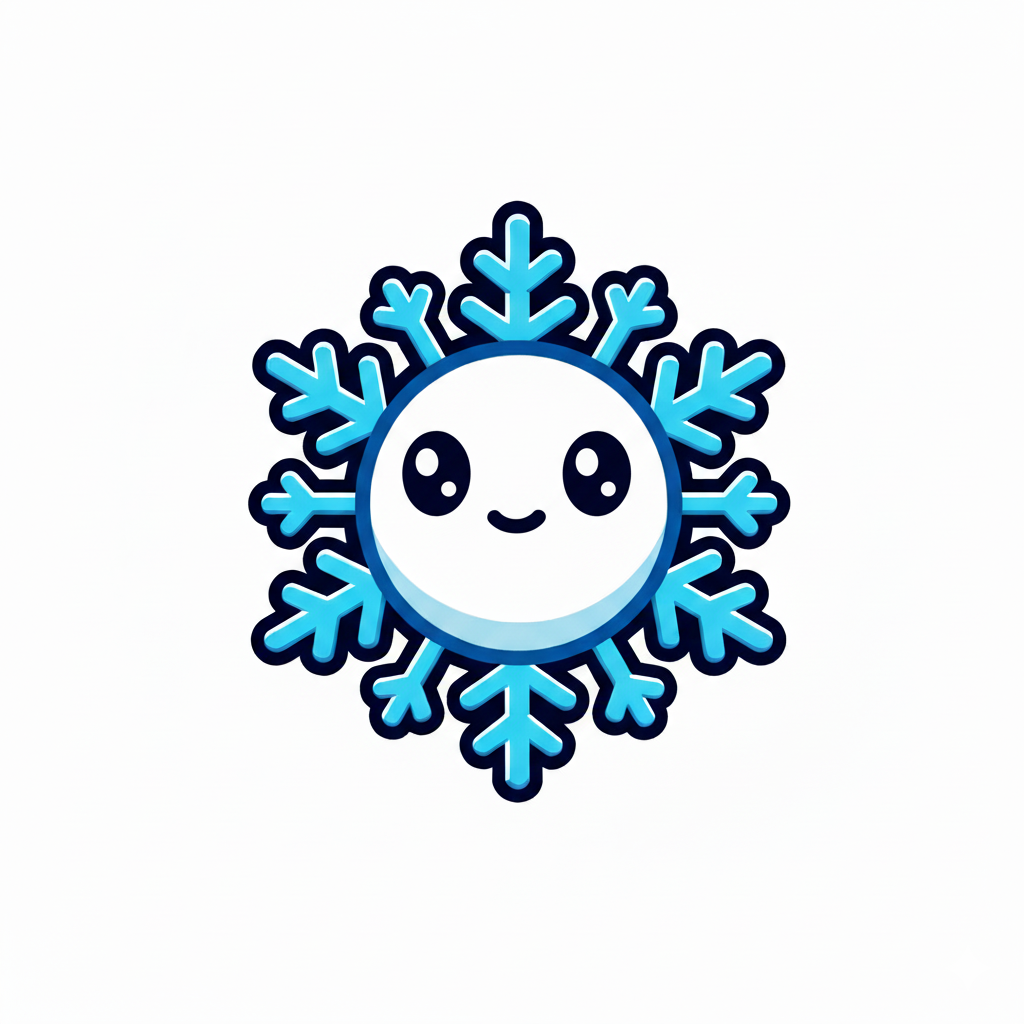
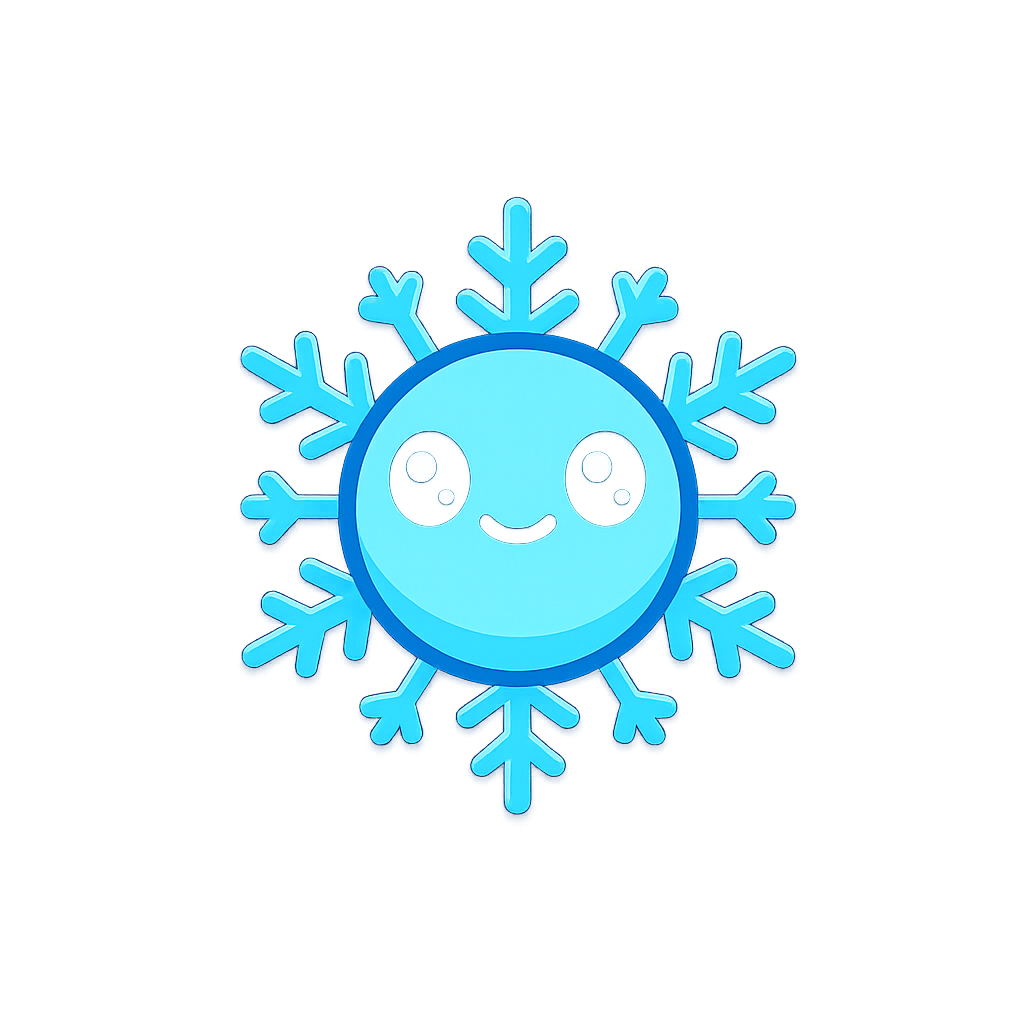
Getting closer to usable assets

Changed region(s): [[0.2188, 0.1875, 0.7812, 0.8125]]

diff --git a/generate.py b/generate.py
@@ -39,17 +39,20 @@ def create_composite(
 
     img_a = Image.open(image_a_path).convert("RGBA")
     img_b = Image.open(image_b_path).convert("RGBA")
-    img_c = Image.open(image_c_path).convert("RGBA")
+    if not 'appicon' in output_path:
+        img_c = Image.open(image_c_path).convert("RGBA")
 
     img_a = resize_keep_aspect(img_a, size_a)
     img_b = resize_keep_aspect(img_b, size_b)
-    img_c = resize_keep_aspect(img_c, size_c)
+    if not 'appicon' in output_path:
+        img_c = resize_keep_aspect(img_c, size_c)
 
     background.paste(img_a, pos_a, img_a)
     background.paste(img_b, pos_b, img_b)
-    background.paste(img_c, pos_c, img_c)
+    if not 'appicon' in output_path:
+        background.paste(img_c, pos_c, img_c)
 
-    background.save(output_path, "JPEG")
+    background.save(output_path, "PNG")
     print(f"Image saved at {output_path}")
 
 character_image = './v2/character/snowflake.png'
@@ -74,17 +77,26 @@ exports = [
     {
         'name': 'tvbanner',
         'width': 1200,
-        'height': 600
+        'height': 600,
+        'pos_a': (.05,.15),
+        'pos_b': (.05,.25),
+        'pos_c': (.35,0.1)
     },
     {
         'name': 'appicon',
         'width': 1000,
-        'height': 1000
+        'height': 1000,
+        'pos_a': (.33,.30),
+        'pos_b': (.33,.40),
+        'pos_c': (.25,.45)
     },
     {
         'name': 'splash',
         'width': 1000,
-        'height': 1000
+        'height': 1000,
+        'pos_a': (.33,.2),
+        'pos_b': (.33,.3),
+        'pos_c': (.2,.45)
     }
 ]
 
@@ -94,22 +106,22 @@ for export in exports:
     for input in inputs:
         export_dir = os.path.join('./generated',input[0])
         os.makedirs(export_dir,exist_ok=True)
-        export_path = os.path.join(export_dir,f"{export['name']}.jpg")
+        export_path = os.path.join(export_dir,f"{export['name']}.png")
         create_composite(
             background_size=(width, height),
             background_color=input[1],
 
             image_a_path='./v2/character/snowflake.png',
             size_a=(int(width*.33), None),
-            pos_a=(int(width*.33), int(height*.20)),
+            pos_a=(int(width*export['pos_a'][0]), int(height*export['pos_a'][1])),
 
             image_b_path=f"./v2/accent/{input[0]}.png",
             size_b=(int(width*.33), None),
-            pos_b=(int(width*.33), int(height*.30)),
+            pos_b=(int(width*export['pos_b'][0]), int(height*export['pos_b'][1])),
 
             image_c_path=f"./v2/text/{input[0]}.png",
-            size_c=(int(width*.75), None),
-            pos_c=(int(width*.15), int(height*.45)),
+            size_c=(int(width*.65), None),
+            pos_c=(int(width*export['pos_c'][0]), int(height*export['pos_c'][1])),
 
             output_path=export_path
         )
